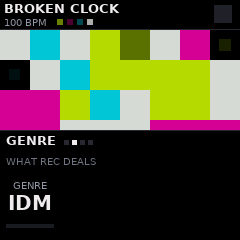
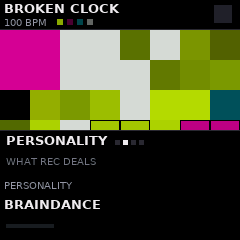
GENRE is PERSONALITY: BRAINDANCE, FLOORS, CLOUDS, IMPLODE; CLOUDS at 65 BPM
- The owner's names: the page and knob PERSONALITY; IDM BRAINDANCE, TECHNO FLOORS, AMBIENT CLOUDS, LOFI IMPLODE
  (the stored values unchanged: saved grooves as they were).
- Chosen, each its tempo: BRAINDANCE 100, FLOORS 135, CLOUDS 65 (was 80), IMPLODE 85.
- A one-word knob name too wide for its column starts at the screen's edge rather than being cut off.
- Manual, README, site, CLAUDE.md, the screenshot.

Claude-Session: https://claude.ai/code/session_01BZyVyPz8sguYwRVQyNrSw4

diff --git a/app/app.c b/app/app.c
@@ -8,7 +8,7 @@
  *   K1-K4              at HOME the parts' levels; HOME held + K1-K4 the macros (MOOD, ACTIVITY, EVOLVE, DRIFT); on
  *                      the other pages, their four settings
  *   HOME EDIT SEQ ENV FX LFO GLO ARP   the pages: HOME, SOUND, GROOVE, MIX, SENDS, MOTION, MACROS, MIDI; pressed again
- *                      FX: EFFECTS, TYPES, DELAY; GLO: GENRE, VISUALS, SCALE; ARP: CHANNELS, USB AUDIO
+ *                      FX: EFFECTS, TYPES, DELAY; GLO: PERSONALITY, VISUALS, SCALE; ARP: CHANNELS, USB AUDIO
  *   HOME tapped at HOME   the processor's load, and whether saving works
  *   SELECT, SEL        the part the SOUND, GROOVE, MIX and SENDS pages show
  *   PRESET             the chosen part's engine;   ALGORITHM   your saved grooves
@@ -297,7 +297,7 @@ static const char *const NOTE_NAME[12] = { "C", "C#", "D", "D#", "E", "F", "F#",
 enum { PG_HOME, PG_SOUND, PG_SEQ, PG_MIX, PG_SENDS, PG_FXBUS, PG_TYPES, PG_DELAY, PG_MOTION, PG_MACROS, PG_GENRE, PG_SCREEN, PG_SCALE,
        PG_MIDI, PG_CHAN, PG_USB, NPAGES };
 static const char *const PAGE_NAME[NPAGES] = { "HOME", "SOUND", "GROOVE", "MIX", "SENDS", "EFFECTS", "TYPES", "DELAY", "MOTION",
-                                                "MACROS", "GENRE", "VISUALS", "SCALE", "MIDI", "CHANNELS", "USB AUDIO" };
+                                                "MACROS", "PERSONALITY", "VISUALS", "SCALE", "MIDI", "CHANNELS", "USB AUDIO" };
 static const uint8_t PAGE_BTN[NPAGES] = { B_HOME, B_EDIT, B_SEQ, B_ENV, B_FX, B_FX, B_FX, B_FX, B_LFO, B_GLO, B_GLO, B_GLO, B_GLO, B_ARP, B_ARP, B_ARP };
 enum { K_NONE, K_PCT, K_ENGINE, K_GEN, K_LEN, K_RATE, K_PITCH, K_PAN, K_TONE, K_SEND, K_RT, K_CT, K_DT, K_PT, K_DTIME,
        K_KEY, K_SCALE, K_TEMPO, K_ONOFF, K_SYNC, K_LCH, K_CH, K_PEGN, K_REC, K_ULVL, K_DECAY, K_ROUTE, K_STYLE, K_GENRE };
@@ -317,7 +317,7 @@ static const Knob PAGES[NPAGES][4] = {
     { { "FEEDBACK", K_PCT, 0, GO(dfb) }, { "GLITCH", K_PCT, 0, GO(glitch) }, { "", K_NONE, 0, 0 }, { "", K_NONE, 0, 0 } },
     { { "LINK", K_PCT, 0, GO(link) }, { "WARP", K_PCT, 0, GO(warp) }, { "FLOW", K_PCT, 0, GO(flow) }, { "CHAOS", K_PCT, 0, GO(chaos) } },
     { { "MOOD", K_PCT, 0, GO(mood) }, { "ACTIVITY", K_PCT, 0, GO(activity) }, { "EVOLVE", K_PCT, 0, GO(evolve) }, { "DRIFT", K_PCT, 0, GO(drift) } },
-    { { "GENRE", K_GENRE, 0, GO(genre) }, { "", K_NONE, 0, 0 }, { "", K_NONE, 0, 0 }, { "", K_NONE, 0, 0 } },
+    { { "PERSONALITY", K_GENRE, 0, GO(genre) }, { "", K_NONE, 0, 0 }, { "", K_NONE, 0, 0 }, { "", K_NONE, 0, 0 } },
     { { "COUNT", K_PEGN, 2, SO(peg_n) }, { "FADE", K_PCT, 2, SO(fade) }, { "BRIGHT", K_PCT, 2, SO(bright) }, { "STYLE", K_STYLE, 2, SO(style) } },
     { { "KEY", K_KEY, 0, GO(key) }, { "SCALE", K_SCALE, 0, GO(scale) }, { "SWING", K_PCT, 0, GO(swing) }, { "TEMPO", K_TEMPO, 0, GO(tempo) } },
     { { "CLOCK", K_SYNC, 2, SO(sync) }, { "NOTES OUT", K_ONOFF, 2, SO(midi_on) }, { "LISTEN", K_ONOFF, 2, SO(listen) }, { "CC IN", K_ONOFF, 2, SO(cc_in) } },
@@ -666,7 +666,7 @@ static void knob_turn(int k, int d)
     else *p = (uint8_t)v;
     if (kn->kind == K_ENGINE) groove_part_engine(&set.cur, ui.sel);   /* (a new engine: its colours dealt to suit) */
     if (kn->kind == K_GENRE && v != was) {       /* (a genre's own tempo when you choose it; REC keeps yours after) */
-        static const uint8_t GT[NUM_GENRES] = { 100, 135, 80, 85 };   /* (IDM, TECHNO, AMBIENT, LOFI) */
+        static const uint8_t GT[NUM_GENRES] = { 100, 135, 65, 85 };   /* (BRAINDANCE, FLOORS, CLOUDS, IMPLODE) */
         set.cur.tempo = (uint8_t)(GT[v % NUM_GENRES] - 40);
     }
     if (kn->where == 2) { autosave_at = plat_ms() + AUTOSAVE_MS; settings_apply(); }
@@ -1169,7 +1169,8 @@ static void draw_panel_rows(int y0)
                 w1[sp] = 0;
                 cv_text(cx - text_w(&FONT_XS, w1) / 2, y - 10, &FONT_XS, w1, hot ? pc : C_SUB);
                 cv_text(cx - text_w(&FONT_XS, nm + sp + 1) / 2, y, &FONT_XS, nm + sp + 1, hot ? pc : C_SUB);
-            } else cv_text(cx - text_w(&FONT_XS, nm) / 2, y, &FONT_XS, nm, hot ? pc : C_SUB);
+            } else { int tx = cx - text_w(&FONT_XS, nm) / 2; cv_text(tx < 4 ? 4 : tx, y, &FONT_XS, nm, hot ? pc : C_SUB); }   /* (one word
+                                                  * too wide for its column, PERSONALITY: from the edge, not cut off) */
         }
         char v[24]; knob_text(pg, k, v);
         int room = k < 3 && knob_of(pg, k + 1)->kind == K_NONE ? 112 : 56;

diff --git a/app/dsp/groove.c b/app/dsp/groove.c
@@ -4,7 +4,7 @@
 
 const char *const PART_NAME[NPARTS] = { "KICK", "SNARE", "PERC", "HATS" };
 const char *const GEN_NAME[NUM_GENS] = { "MAP", "EUCLID", "TURING", "BROKEN" };
-const char *const GENRE_NAME[NUM_GENRES] = { "IDM", "TECHNO", "AMBIENT", "LOFI" };
+const char *const GENRE_NAME[NUM_GENRES] = { "BRAINDANCE", "FLOORS", "CLOUDS", "IMPLODE" };   /* (IDM, techno, ambient, lofi hip hop) */
 const char *const RATE_NAME[NUM_RATES] = { "1/16", "1/8", "1/32", "1/16T", "1/8T" };
 const uint8_t RATE_TICKS[NUM_RATES] = { 24, 48, 12, 16, 32 };
 const char *const RT_NAME[NUM_RT] = { "ROOM", "GATED", "REVERSE", "FREEZE" };

diff --git a/app/docs/MANUAL.md b/app/docs/MANUAL.md
@@ -21,7 +21,7 @@ repeat; past it, it flows freely and rewrites itself.
 9. The grooves and their step components
 10. Effects
 11. Motion
-12. Genre, key, swing and tempo
+12. Personality, key, swing and tempo
 13. The keys: punch-ins and randomisers
 14. Saving your grooves
 15. Playing with After Images
@@ -54,7 +54,7 @@ repeat; past it, it flows freely and rewrites itself.
 | ENV | MIX |
 | FX, again, again, again | SENDS, EFFECTS, TYPES, DELAY |
 | LFO | MOTION |
-| GLO, twice, three, four times | MACROS, GENRE, VISUALS, SCALE |
+| GLO, twice, three, four times | MACROS, PERSONALITY, VISUALS, SCALE |
 | ARP, twice, three times | MIDI, CHANNELS, USB AUDIO |
 | white keys | punch-in effects (section 13) |
 | black keys | randomisers (section 13) |
@@ -293,12 +293,12 @@ at full, or USB AUDIO's GAIN at 100, is unity.
 - **FLOW**: each part's sound slowly wandering.
 - **CHAOS**: rolls, skipped hits and hits pushed off the grid, at random (never the kick's).
 
-## 12. Genre, key, swing and tempo
+## 12. Personality, key, swing and tempo
 
-![GENRE](img/genre.png)
+![PERSONALITY](img/genre.png)
 
-**GLO twice: GENRE**: what REC deals: IDM, TECHNO, AMBIENT or LOFI. **IDM** is the groove as it has always been: broken, shuffled, machine-like.
-**TECHNO** deals:
+**GLO twice: PERSONALITY**: what REC deals: BRAINDANCE, FLOORS, CLOUDS or IMPLODE. **BRAINDANCE** (IDM) is the groove
+as it has always been: broken, shuffled, machine-like. **FLOORS** (techno) deals:
 
 - the kick four on the floor, every beat, always: ACTIVITY only adds a pounding extra on top (a pickup into the one, a
   rolling double), and nothing (EVOLVE, CHAOS, conditions) takes a floor kick away; FILL still drops it for a bar, as
@@ -308,18 +308,17 @@ at full, or USB AUDIO's GAIN at 100, is unity.
   with a looping sixteenth machine round them, often on a length that isn't 16: polymeters, hypnotic;
 - the punchier kicks, the clap, the metallic and digital hats; and next to no swing.
 
-**AMBIENT** deals soft and sparse, out of micro-sounds: a soft, long kick about once a bar (sometimes off the one), the
+**CLOUDS** (ambient) deals soft and sparse, out of micro-sounds: a soft, long kick about once a bar (sometimes off the one), the
 snare a rare texture of wires and grains rather than a backbeat, and the perc and hats tiny clicks, dust, grains and
 foley, often in 1/32s or triplets on odd loop lengths. Soft attacks, darker tones, gentler hits, a little swing.
 
-**LOFI** deals boom-bap: a written hip-hop kick (the one, then a second hit that moves from groove to groove, with
+**IMPLODE** (lo-fi hip hop) deals boom-bap: a written hip-hop kick (the one, then a second hit that moves from groove to groove, with
 extras that ACTIVITY brings in), a crack or rim on two and four with quiet ghosts, dusty hats (quarters at ACTIVITY
 0, eighths as it rises, sixteenth pickups near the top, an open hat into the bar now and then) and a sparse rim or
 shaker for the perc. The hats and snare filtered dark, the kick boomy, and a heavy, lazy swing.
 
-Choosing a genre sets its tempo: IDM 100, TECHNO 135, AMBIENT 80, LOFI 85 BPM; after that REC keeps your tempo, as
-always. A saved groove
-keeps its genre. MOOD, EVOLVE, DRIFT, MOTION and every punch-in work just the same in both.
+Choosing a personality sets its tempo: BRAINDANCE 100, FLOORS 135, CLOUDS 65, IMPLODE 85 BPM; after that REC keeps
+your tempo, as always. A saved groove keeps its personality. MOOD, EVOLVE, DRIFT, MOTION and every punch-in work just the same in each.
 
 ![SCALE](img/scale.png)
 

diff --git a/CLAUDE.md b/CLAUDE.md
@@ -38,13 +38,14 @@ Generative at its core, with macros across the main features, as After Images ha
   SCALE page), dealt by REC.
 - Velocity is shaped for groove, experimental but groovy (Autechre, Boards of Canada): the bar's weight (downbeats
   strongest), a drifting accent cycle of 3, 5 or 7 sixteenths, a slow wave; harder hits brighter and heavier.
-- First iteration: IDM in feel and machine-like. GLO's GENRE (its own page, GLO twice; GLO is MACROS, GENRE,
-  VISUALS, SCALE) chooses what REC deals: IDM, or TECHNO (four on the floor always, the snare or clap on two and
-  four, perc Euclid's on odd lengths and Turing hats round an off-beat: polymetric, hypnotic; next to no swing),
-  AMBIENT (soft and sparse, micro-sounds: a soft kick about once a bar, the snare a rare texture, tiny clicks, dust and
-  grains in 1/32s and triplets on odd lengths) or LOFI (boom-bap: written kicks, a crack on two and four with ghosts,
-  dusty hats, dark tones, heavy swing). Choosing one sets its tempo (IDM 100, TECHNO 135, AMBIENT 80, LOFI 85); a
-  groove keeps its genre.
+- First iteration: IDM in feel and machine-like. GLO's PERSONALITY (its own page, GLO twice; GLO is MACROS,
+  PERSONALITY, VISUALS, SCALE; in the code, a groove's genre) chooses what REC deals: BRAINDANCE (IDM, the first),
+  FLOORS (techno: four on the floor always, the snare or clap on two and four, perc Euclid's on odd lengths and
+  Turing hats round an off-beat: polymetric, hypnotic; next to no swing), CLOUDS (ambient: soft and sparse,
+  micro-sounds: a soft kick about once a bar, the snare a rare texture, tiny clicks, dust and grains in 1/32s and
+  triplets on odd lengths) or IMPLODE (lo-fi hip hop: boom-bap, written kicks, a crack on two and four with ghosts,
+  dusty hats, dark tones, heavy swing). Choosing one sets its tempo (BRAINDANCE 100, FLOORS 135, CLOUDS 65, IMPLODE
+  85); a groove keeps its personality.
 - Generators: Turing machines for the high percussion (hats, shakers); Euclidean rhythms, a Grids-style groove map,
   polymeters, fills as simple groove changes (no rolls, nothing accelerating), probability and ghost notes.
 - Effects, in three places:

diff --git a/app/site/landing.md b/app/site/landing.md
@@ -16,8 +16,8 @@ Made to play under [After Images](https://TheGrizard.github.io/After-Images/).
 - **One button, a whole groove:** four sounds (one carried over, for a set that flows), four patterns, effects, a
   palette and a name; the tempo stays yours.
 - **Polymeters:** the kick and snare hold the bar while the perc and hats loop on odd lengths, drifting against it.
-- **Generators, not dice:** a groove map, Euclidean rhythms, Turing machines and broken IDM groupings; or other genres:
-  TECHNO's four on the floor, AMBIENT's soft micro-sounds, LOFI's dusty boom-bap.
+- **Generators, not dice:** a groove map, Euclidean rhythms, Turing machines and broken IDM groupings; or other
+  personalities: FLOORS' four on the floor, CLOUDS' soft micro-sounds, IMPLODE's dusty boom-bap.
 - **Step components:** ratchets, nudges, conditions, probabilities and ghosts, brought in by EVOLVE one at a time.
 - **Eighteen drum engines:** a soft 808, struck skins, resonant boxes, FM, claps, wires, grains, cracks, a circuit-bent
   toy, wood and glass, strings, foley (boxes, wood, footsteps, drags), metal clusters, crackle, digital noise, an

diff --git a/README.md b/README.md
@@ -19,8 +19,9 @@ Free and open source (MPL-2.0). By [TheGrizard](https://github.com/TheGrizard), 
 ## What makes it different
 
 - **Always a kit, never the same groove.** REC deals four sounds (one carried over from the last groove), four patterns, a palette, the effects and
-  a name. IDM and machine-like first: Autechre, Boards of Canada, Burial, Objekt. Or, with GLO's GENRE: TECHNO (four on the
-  floor, hypnotic polymetric perc and hats), AMBIENT (soft micro-sounds) or LOFI (boom-bap, dusty, swung).
+  a name. IDM and machine-like first: Autechre, Boards of Canada, Burial, Objekt. That's the BRAINDANCE personality; GLO's PERSONALITY also
+  has FLOORS (techno: four on the floor, hypnotic polymetric perc and hats), CLOUDS (ambient: soft micro-sounds) and
+  IMPLODE (lo-fi hip hop: boom-bap, dusty, swung).
 - **Polymeters.** The kick and snare hold the bar; the perc and hats loop on odd lengths (5, 7, 11, 13 ...), drifting
   against it and meeting again.
 - **Generators.** A groove map that blends half-time, 2-step, electro and broken grooves; Euclidean rhythms; Turing
